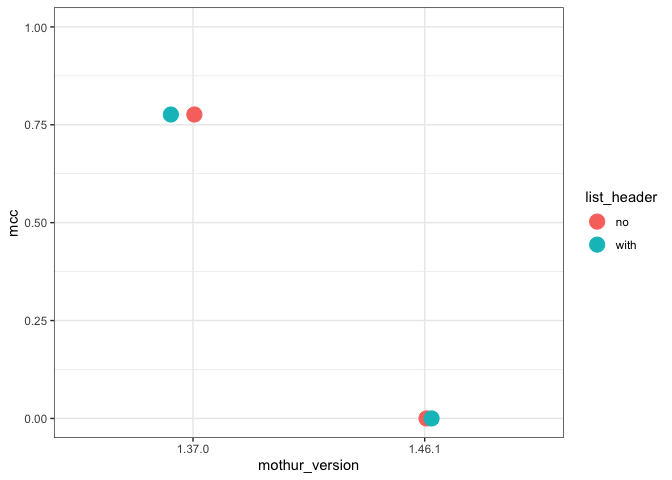
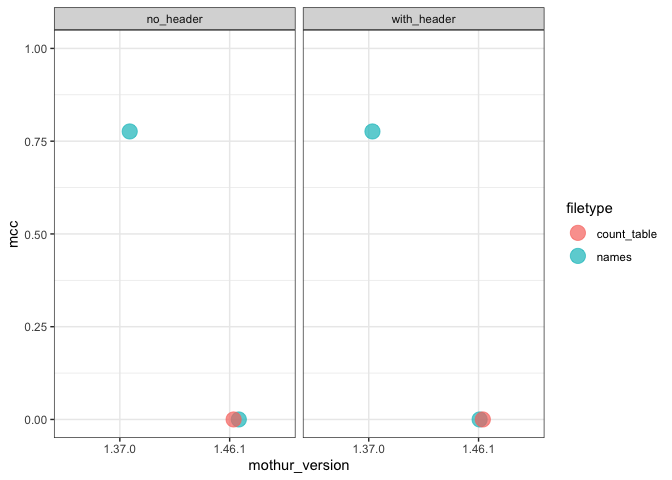
Plot latest runs

diff --git a/README.md b/README.md
@@ -23,14 +23,16 @@ library(tidyverse)
     ## x dplyr::lag()    masks stats::lag()
 
 ``` r
-dat <- read_tsv(here('results', 'sensspec_concat.tsv'))
+dat <- read_tsv(here('results', 'sensspec_concat.tsv')) %>% 
+  mutate(list_contains_header=recode(list_header,
+                                     no='with_header', with='no_header'))
 ```
 
-    ## Rows: 4 Columns: 17
+    ## Rows: 6 Columns: 18
 
     ## ── Column specification ────────────────────────────────────────────────────────
     ## Delimiter: "\t"
-    ## chr  (3): label, mothur_version, list_header
+    ## chr  (4): label, mothur_version, list_header, filetype
     ## dbl (14): cutoff, tp, tn, fp, fn, sensitivity, specificity, ppv, npv, fdr, a...
 
     ## 
@@ -41,20 +43,24 @@ dat <- read_tsv(here('results', 'sensspec_concat.tsv'))
 head(dat)
 ```
 
-    ## # A tibble: 4 × 17
+    ## # A tibble: 6 × 19
     ##   label     cutoff     tp       tn      fp     fn sensitivity specificity     ppv
     ##   <chr>      <dbl>  <dbl>    <dbl>   <dbl>  <dbl>       <dbl>       <dbl>   <dbl>
     ## 1 userLabel   0.03 6.28e6  6.33e 8 3.23e 6 552512       0.919       0.995 6.60e-1
     ## 2 userLabel   0.03 6.28e6  6.33e 8 3.23e 6 552512       0.919       0.995 6.60e-1
     ## 3 userLabel   0.03 6.28e6 -1.83e11 1.83e11 552512       0.919    -287.    3.42e-5
     ## 4 userLabel   0.03 6.28e6 -1.83e11 1.83e11 552512       0.919    -287.    3.42e-5
-    ## # … with 8 more variables: npv <dbl>, fdr <dbl>, accuracy <dbl>, mcc <dbl>,
-    ## #   f1score <dbl>, mothur_version <chr>, list_header <chr>, numotus <dbl>
+    ## 5 userLabel   0.03 6.28e6 -1.83e11 1.83e11 552512       0.919    -287.    3.42e-5
+    ## 6 userLabel   0.03 6.28e6 -1.83e11 1.83e11 552512       0.919    -287.    3.42e-5
+    ## # … with 10 more variables: npv <dbl>, fdr <dbl>, accuracy <dbl>, mcc <dbl>,
+    ## #   f1score <dbl>, mothur_version <chr>, list_header <chr>, filetype <chr>,
+    ## #   numotus <dbl>, list_contains_header <chr>
 
 ``` r
-dat %>% ggplot(aes(x=mothur_version, y=mcc, color=list_header)) +
+dat %>% ggplot(aes(x=mothur_version, y=mcc, color=filetype)) +
   geom_point(position = position_jitter(width=0.1, height = 0),
-             size = 5) +
+             size = 5, alpha=0.7) +
+  facet_wrap("list_contains_header") +
   ylim(0,1) +
   theme_bw()
 ```
